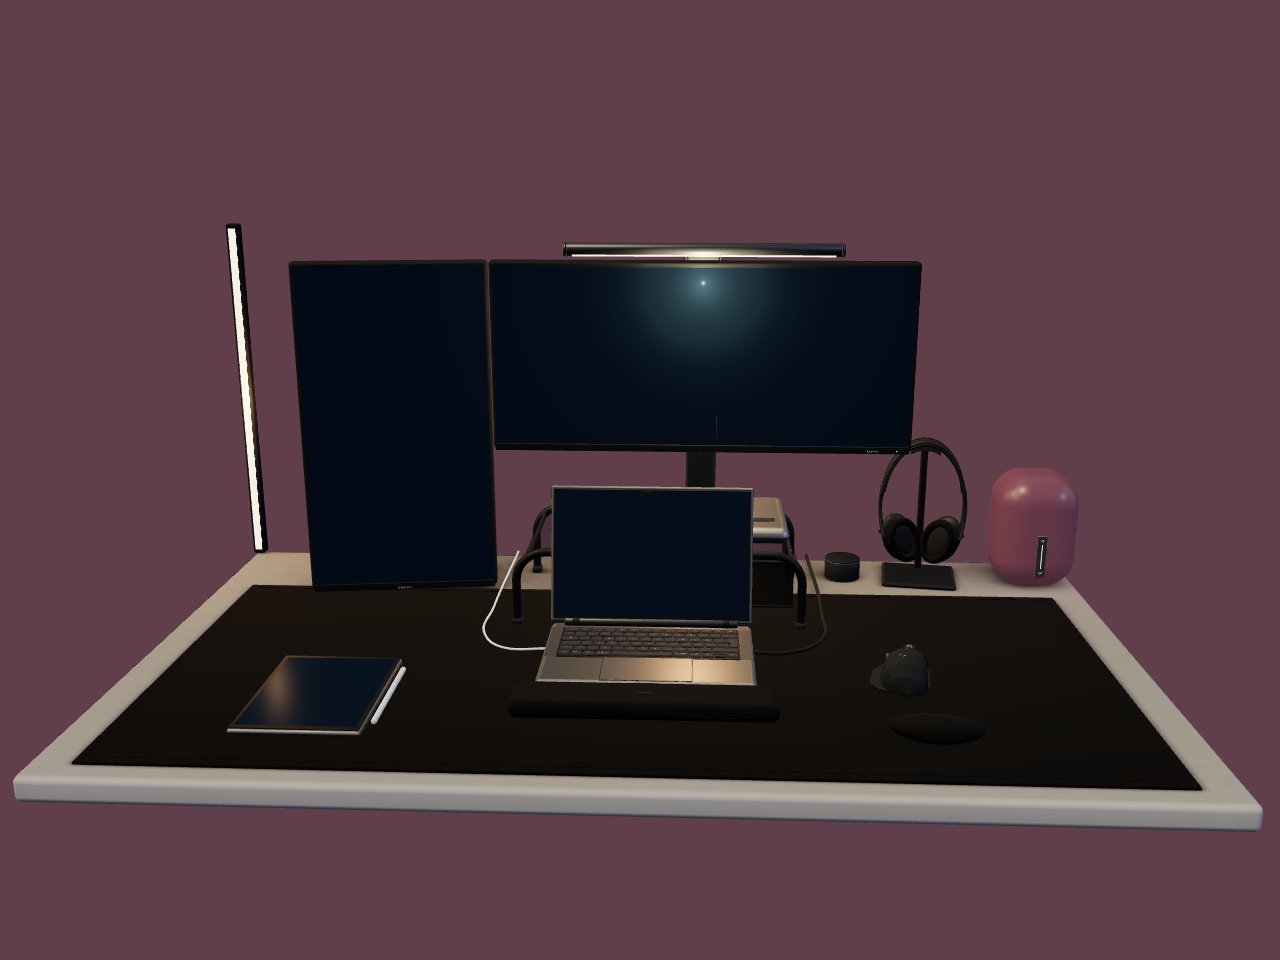
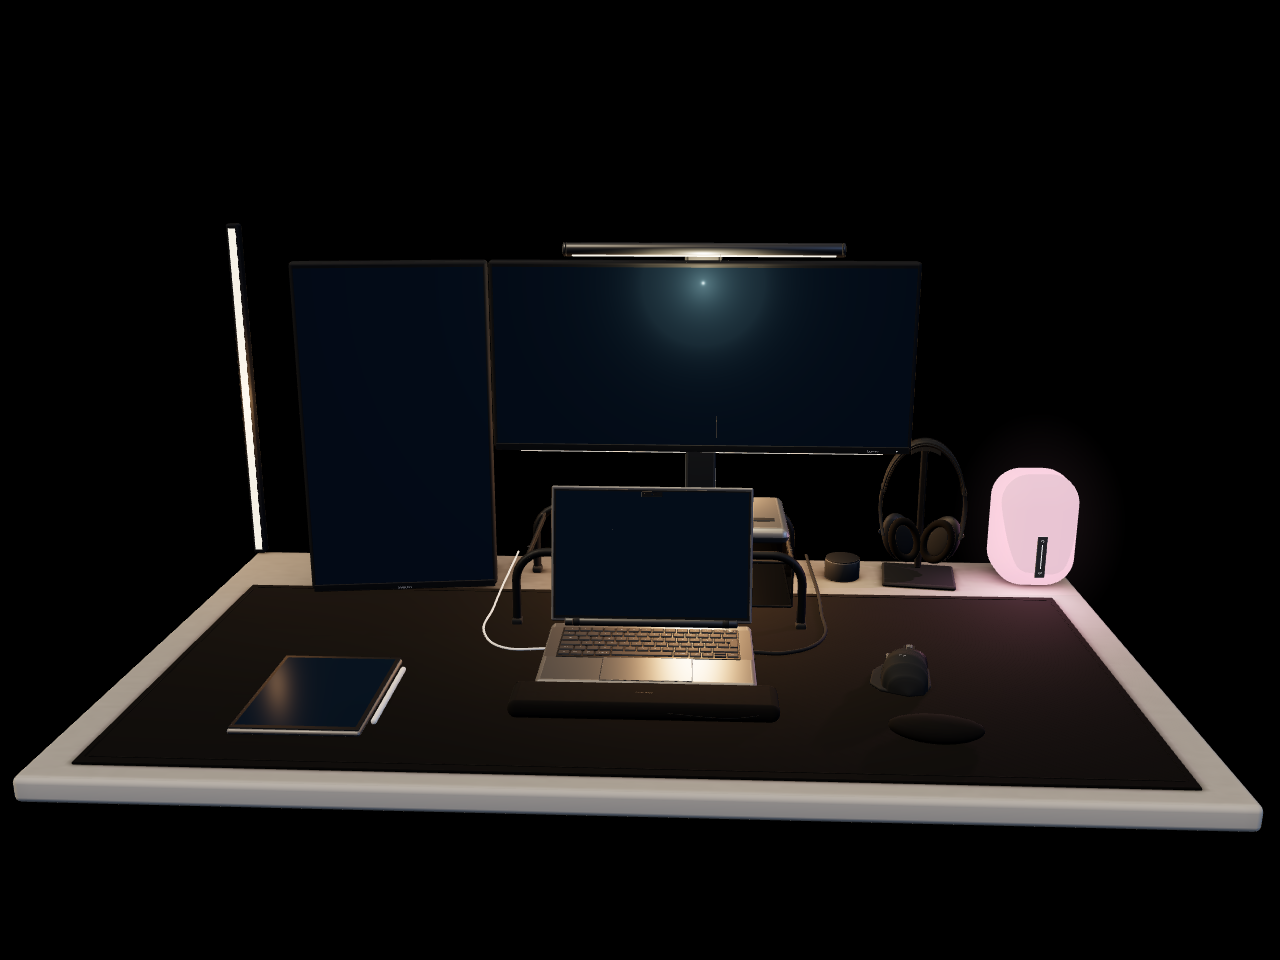
Restore desk lighting against a fixed black background

diff --git a/src/components/desk/interaction-scene.tsx b/src/components/desk/interaction-scene.tsx
@@ -4,12 +4,17 @@ import { useEffect, useMemo, useRef } from "react";
 import { useFrame, useThree, type ThreeEvent } from "@react-three/fiber";
 import {
   Color,
+  CanvasTexture,
+  AdditiveBlending,
+  Sprite,
+  SpriteMaterial,
   Group,
   Mesh,
   MeshBasicMaterial,
   MeshStandardMaterial,
   Object3D,
   PointLight,
+  SpotLight,
 } from "three";
 import contract from "@/lib/desk-interactions.json";
 import {
@@ -42,10 +47,30 @@ export default function InteractionScene({
   model: Group;
   controls: DeskInteractions;
 }) {
-  const { scene, gl, invalidate } = useThree();
+  const { gl, invalidate } = useThree();
   const { active, reduced, registerMotion } = controls;
-  const lights = useRef<(PointLight | null)[]>([]);
+  const lights = useRef<(PointLight | SpotLight | null)[]>([]);
   const ring = useRef<Mesh>(null);
+  const biasStrip = useRef<Mesh>(null);
+  const glow = useRef<Sprite>(null);
+  const glowMap = useMemo(() => {
+    const canvas = document.createElement("canvas");
+    canvas.width = canvas.height = 128;
+    const context = canvas.getContext("2d")!;
+    const gradient = context.createRadialGradient(64, 64, 8, 64, 64, 64);
+    gradient.addColorStop(0, "rgba(255,255,255,0.6)");
+    gradient.addColorStop(0.35, "rgba(255,255,255,0.22)");
+    gradient.addColorStop(1, "rgba(255,255,255,0)");
+    context.fillStyle = gradient;
+    context.fillRect(0, 0, 128, 128);
+    return new CanvasTexture(canvas);
+  }, []);
+  useEffect(() => () => glowMap.dispose(), [glowMap]);
+  const lampTarget = useMemo(() => {
+    const target = new Object3D();
+    target.position.set(0.58, 0, -0.22);
+    return target;
+  }, []);
   const shadows = useRef<(Mesh | null)[]>([]);
   const running = useRef<
     Partial<Record<AnimatedObject, { start: number; variant: number }>>
@@ -168,11 +193,13 @@ export default function InteractionScene({
     color.current
       .copy(transition.current.colorStart)
       .lerp(targetColor, ease(ct));
-    if (scene.background instanceof Color) scene.background.copy(color.current);
+    if (glow.current)
+      (glow.current.material as SpriteMaterial).color.copy(color.current);
     lampMaterials.forEach((material) => {
       material.color.copy(color.current);
       material.emissive.copy(color.current);
-      material.emissiveIntensity = 0.65;
+      material.emissiveIntensity = 9;
+      material.roughness = 1;
     });
     const light =
       transition.current.lightStart +
@@ -186,10 +213,15 @@ export default function InteractionScene({
         0.08 + 0.32 * light,
       );
     });
+    if (biasStrip.current) {
+      const material = biasStrip.current.material as MeshStandardMaterial;
+      material.emissiveIntensity = 4 * light;
+      material.color.setScalar(0.04 + 0.8 * light);
+    }
     lights.current.forEach((lamp, i) => {
       if (lamp) {
         if (i === 3) lamp.color.copy(color.current);
-        else lamp.intensity = [0.22, 0.35, 0.22][i] * light;
+        else lamp.intensity = [0.22, 0.35, 0.65][i] * light;
       }
     });
     let busy = ct < 1 || lt < 1;
@@ -300,19 +332,47 @@ export default function InteractionScene({
         ref={(node) => {
           lights.current[2] = node;
         }}
-        position={[0.08, 0.34, -0.4]}
-        intensity={0.22}
+        position={[0.08, 0.2, -0.36]}
+        intensity={0.65}
         distance={0.9}
         color="#ffb774"
       />
-      <pointLight
+      <sprite ref={glow} position={[0.673, 0.12, -0.33]} scale={[0.3, 0.38, 1]}>
+        <spriteMaterial
+          map={glowMap}
+          blending={AdditiveBlending}
+          transparent
+          opacity={0.8}
+          depthWrite={false}
+          toneMapped={false}
+        />
+      </sprite>
+      <primitive object={lampTarget} />
+      <spotLight
+        castShadow
+        target={lampTarget}
+        angle={1.25}
+        penumbra={0.8}
+        shadow-mapSize={[1024, 1024]}
+        shadow-camera-near={0.02}
+        shadow-camera-far={1.5}
+        shadow-bias={-0.0002}
+        shadow-normalBias={0.001}
         ref={(node) => {
           lights.current[3] = node;
         }}
         position={[0.673, 0.16, -0.33]}
-        intensity={0.16}
-        distance={0.7}
+        intensity={3}
+        distance={1.2}
       />
+      <mesh ref={biasStrip} position={[0.09, 0.247, -0.302]}>
+        <boxGeometry args={[0.61, 0.006, 0.006]} />
+        <meshStandardMaterial
+          color="#ffe0b0"
+          emissive="#ffb774"
+          emissiveIntensity={4}
+        />
+      </mesh>
       {animated.map((id, index) => (
         <mesh
           key={id}

diff --git a/src/components/desk/scene.tsx b/src/components/desk/scene.tsx
@@ -17,7 +17,6 @@ import {
   useDeskInteractions,
   type DeskInteractions,
 } from "./interactions";
-import { lampColors } from "@/lib/desk-interaction-motion";
 
 type Props = {
   revealed: boolean;
@@ -126,6 +125,8 @@ export function Model({
         object.material = Array.isArray(object.material)
           ? object.material.map((m) => m.clone())
           : object.material.clone();
+        object.castShadow = object.userData.interaction !== "lamp";
+        object.receiveShadow = true;
         if (object.userData.interaction === "backdrop") object.visible = false;
       }
     });
@@ -284,12 +285,13 @@ export default function DeskScene(props: Props) {
   return (
     <div className={styles.canvas} style={{ opacity: props.revealed ? 1 : 0 }}>
       <Canvas
+        shadows
         dpr={[1, 1.5]}
         frameloop="demand"
         camera={{ position: [0.12, 0.69, 1.48], fov: 43, near: 0.01, far: 12 }}
         gl={{ antialias: true, alpha: false, powerPreference: "low-power" }}
       >
-        <color attach="background" args={[lampColors[1]]} />
+        <color attach="background" args={["#000000"]} />
         <DeskLighting />
         <ambientLight intensity={0.55} color="#cad6ef" />
         <directionalLight

diff --git a/src/components/desk/journey-scene.tsx b/src/components/desk/journey-scene.tsx
@@ -9,7 +9,6 @@ import {
 } from "react";
 import DeskLighting from "./lighting";
 import { DeskObjectControls, useDeskInteractions } from "./interactions";
-import { lampColors } from "@/lib/desk-interaction-motion";
 import ProjectArt from "@/components/project-art";
 import { Canvas, useFrame, useThree } from "@react-three/fiber";
 import { Vector3, PerspectiveCamera } from "three";
@@ -208,12 +207,13 @@ export default function JourneyScene(props: JourneySceneProps) {
   return (
     <div className={styles.scene} ref={wrapper} style={{ opacity: 0 }}>
       <Canvas
+        shadows
         dpr={[1, 1.5]}
         frameloop="demand"
         camera={{ fov: 43, near: 0.01, far: 15 }}
         gl={{ antialias: true, alpha: false, powerPreference: "low-power" }}
       >
-        <color attach="background" args={[lampColors[1]]} />
+        <color attach="background" args={["#000000"]} />
         <DeskLighting />
         <ambientLight intensity={0.45} color="#cad6ef" />
         <directionalLight

diff --git a/tests/e2e/desk-interactions.spec.ts b/tests/e2e/desk-interactions.spec.ts
@@ -1,4 +1,5 @@
 import { test, expect } from "@playwright/test";
+import sharp from "sharp";
 import AxeBuilder from "@axe-core/playwright";
 import { PerspectiveCamera, Vector3 } from "three";
 import scene from "../../src/lib/desk-scene.json";
@@ -44,6 +45,13 @@ for (const locale of ["en", "tr"] as const) {
         await expect(canvas).toHaveAttribute("data-lamp-color", color);
         await expect(canvas).toHaveAttribute("data-lights", "0.000");
       }
+      // Sample actual rendered pixels: lamp color must never tint the backdrop.
+      const corner = await sharp(await canvas.screenshot())
+        .extract({ left: 30, top: 30, width: 1, height: 1 })
+        .removeAlpha()
+        .raw()
+        .toBuffer();
+      expect([...corner]).toEqual([0, 0, 0]);
       await dial.click();
       await expect(canvas).toHaveAttribute("data-lights", "1.000");
       await page.clock.pauseAt(new Date(Date.now() + 1000));

diff --git a/src/components/desk/journey.module.css b/src/components/desk/journey.module.css
@@ -15,7 +15,7 @@
   height: var(--stage-height);
   min-height: 0;
   overflow: clip;
-  background: #603f4b;
+  background: #000;
   isolation: isolate;
 }
 .journey[data-enhanced="true"] .stage {

diff --git a/src/components/desk/review.module.css b/src/components/desk/review.module.css
@@ -34,7 +34,7 @@
   min-height: 320px;
   overflow: hidden;
   border-radius: 12px;
-  background: #603f4b;
+  background: #000;
   isolation: isolate;
 }
 .poster {

diff --git a/docs/qa/desk/interactions.md b/docs/qa/desk/interactions.md
@@ -4,12 +4,16 @@ The review and scroll journey share one interaction runtime. No homepage integra
 
 ## Verified behavior
 
-- The visible black dial below the ultrawide switches the left light, lightbar and rear bias light together. The right lamp stays independent; its five colors match the flat backdrop hue.
+- The visible black dial below the ultrawide switches the left light, lightbar and rear bias light together. The right lamp stays independent; its five colors affect only the emissive lamp and its shadow-casting pool on the desk; the backdrop stays black.
 - The headphones lift and settle without moving their stand. Missing music is reported in the native control disclosure; no audio request occurs.
 - The mouse uses five bounded paths and a short click ring. Rapid clicks do not accumulate extra animations. The tablet is fixed while the pencil rolls onto the mat and returns.
 - Both locales provide keyboard buttons, pressed states for lights/music, visible focus, 44 px targets and a polite music status. Mobile touch controls fit without horizontal overflow.
 - Reduced motion in the review snaps lights and suppresses accessory motion. The journey keeps its static fallback. Model failure and context loss keep the existing recovery paths.
-- Demand rendering stops at rest and when the scene is inactive. The model has 93,011 triangles and is 462,644 bytes. The opening runtime uses 45 draw calls at rest and 46 with the ring (existing budget: 50).
+- Demand rendering stops at rest and when the scene is inactive. The model has 93,011 triangles and is 462,644 bytes. The main render pass remains within the existing 50 draw-call budget; shadow maps add separate depth passes while rendering.
+
+## Lighting correction
+
+The backdrop is fixed black in both Canvas views and their stage CSS. The right lamp has a brighter emissive diffuser, a local additive halo and a wide shadow-casting spotlight aimed at the desk. Model meshes receive shadows and cast them, except for the lamp housing around its own source. A visible warm strip below the ultrawide and its stronger rear fill follow the same dial transition as the lightbar and left vertical light.
 
 ## Verification
 
@@ -19,7 +23,7 @@ The 54-case browser matrix finished with 42 passes, 11 expected headless WebKit 
 
 Browser coverage includes both demos/locales, direct object picking, keyboard operation, color cycling while task lights are off, repeated clicks, reduced motion, render idling, existing camera journeys, occlusion, model failure, no-JavaScript and static fallback behavior. Animation tests use Playwright's controlled clock to inspect short motions without depending on host rendering speed.
 
-Visual review: the lamp uses PBR surface shading to retain its silhouette against the matching backdrop. Neutral receiver maps contain no switched-light contributions; moving meshes, curves and text are excluded from their bake. Screen projection and desk layout remain unchanged.
+Visual review: the lamp uses a bright emissive diffuser and a subtle local halo against a fixed black backdrop. Neutral receiver maps contain no switched-light contributions; moving meshes, curves and text are excluded from their bake. Screen projection and desk layout remain unchanged.
 
 The Web Interface Guidelines review used the [current primary guidelines](https://raw.githubusercontent.com/vercel-labs/web-interface-guidelines/main/command.md). The approved sentence case and first-person content contract takes precedence over its copy defaults. No remaining actionable findings in the new controls.
 

diff --git a/docs/desk-model.md b/docs/desk-model.md
@@ -51,7 +51,7 @@ The model now includes five embedded authored microstructure normal maps, correc
 
 ## September 9 object interactions
 
-Both review routes share the same controls and motion runtime. The lightbar dial toggles the left light, lightbar and rear bias light together (250 ms); the separate right lamp cycles muted amber, pink, purple, blue and green with a matching flat background (350 ms). Pink is the initial color. Neutral studio fill keeps objects legible with task lights off.
+Both review routes share the same controls and motion runtime. The lightbar dial toggles the left light, lightbar and rear bias light together (250 ms); the separate right lamp cycles muted amber, pink, purple, blue and green with a fixed black background (350 ms). Pink is the initial color. Neutral studio fill keeps objects legible with task lights off.
 
 The headphone assembly moves without its stand (550 ms). The mouse follows five bounded paths, returning to its original pose (750 ms); a short ring marks the click. The tablet remains fixed while its pencil rolls outward onto the mat and returns (1000 ms). The pencil's radius clears the 4 mm mat. Repeated clicks do not queue animations. The export batches within interaction identity and material, preserving eight named anchors and a generated target/pivot contract in `src/lib/desk-interactions.json`.
 
